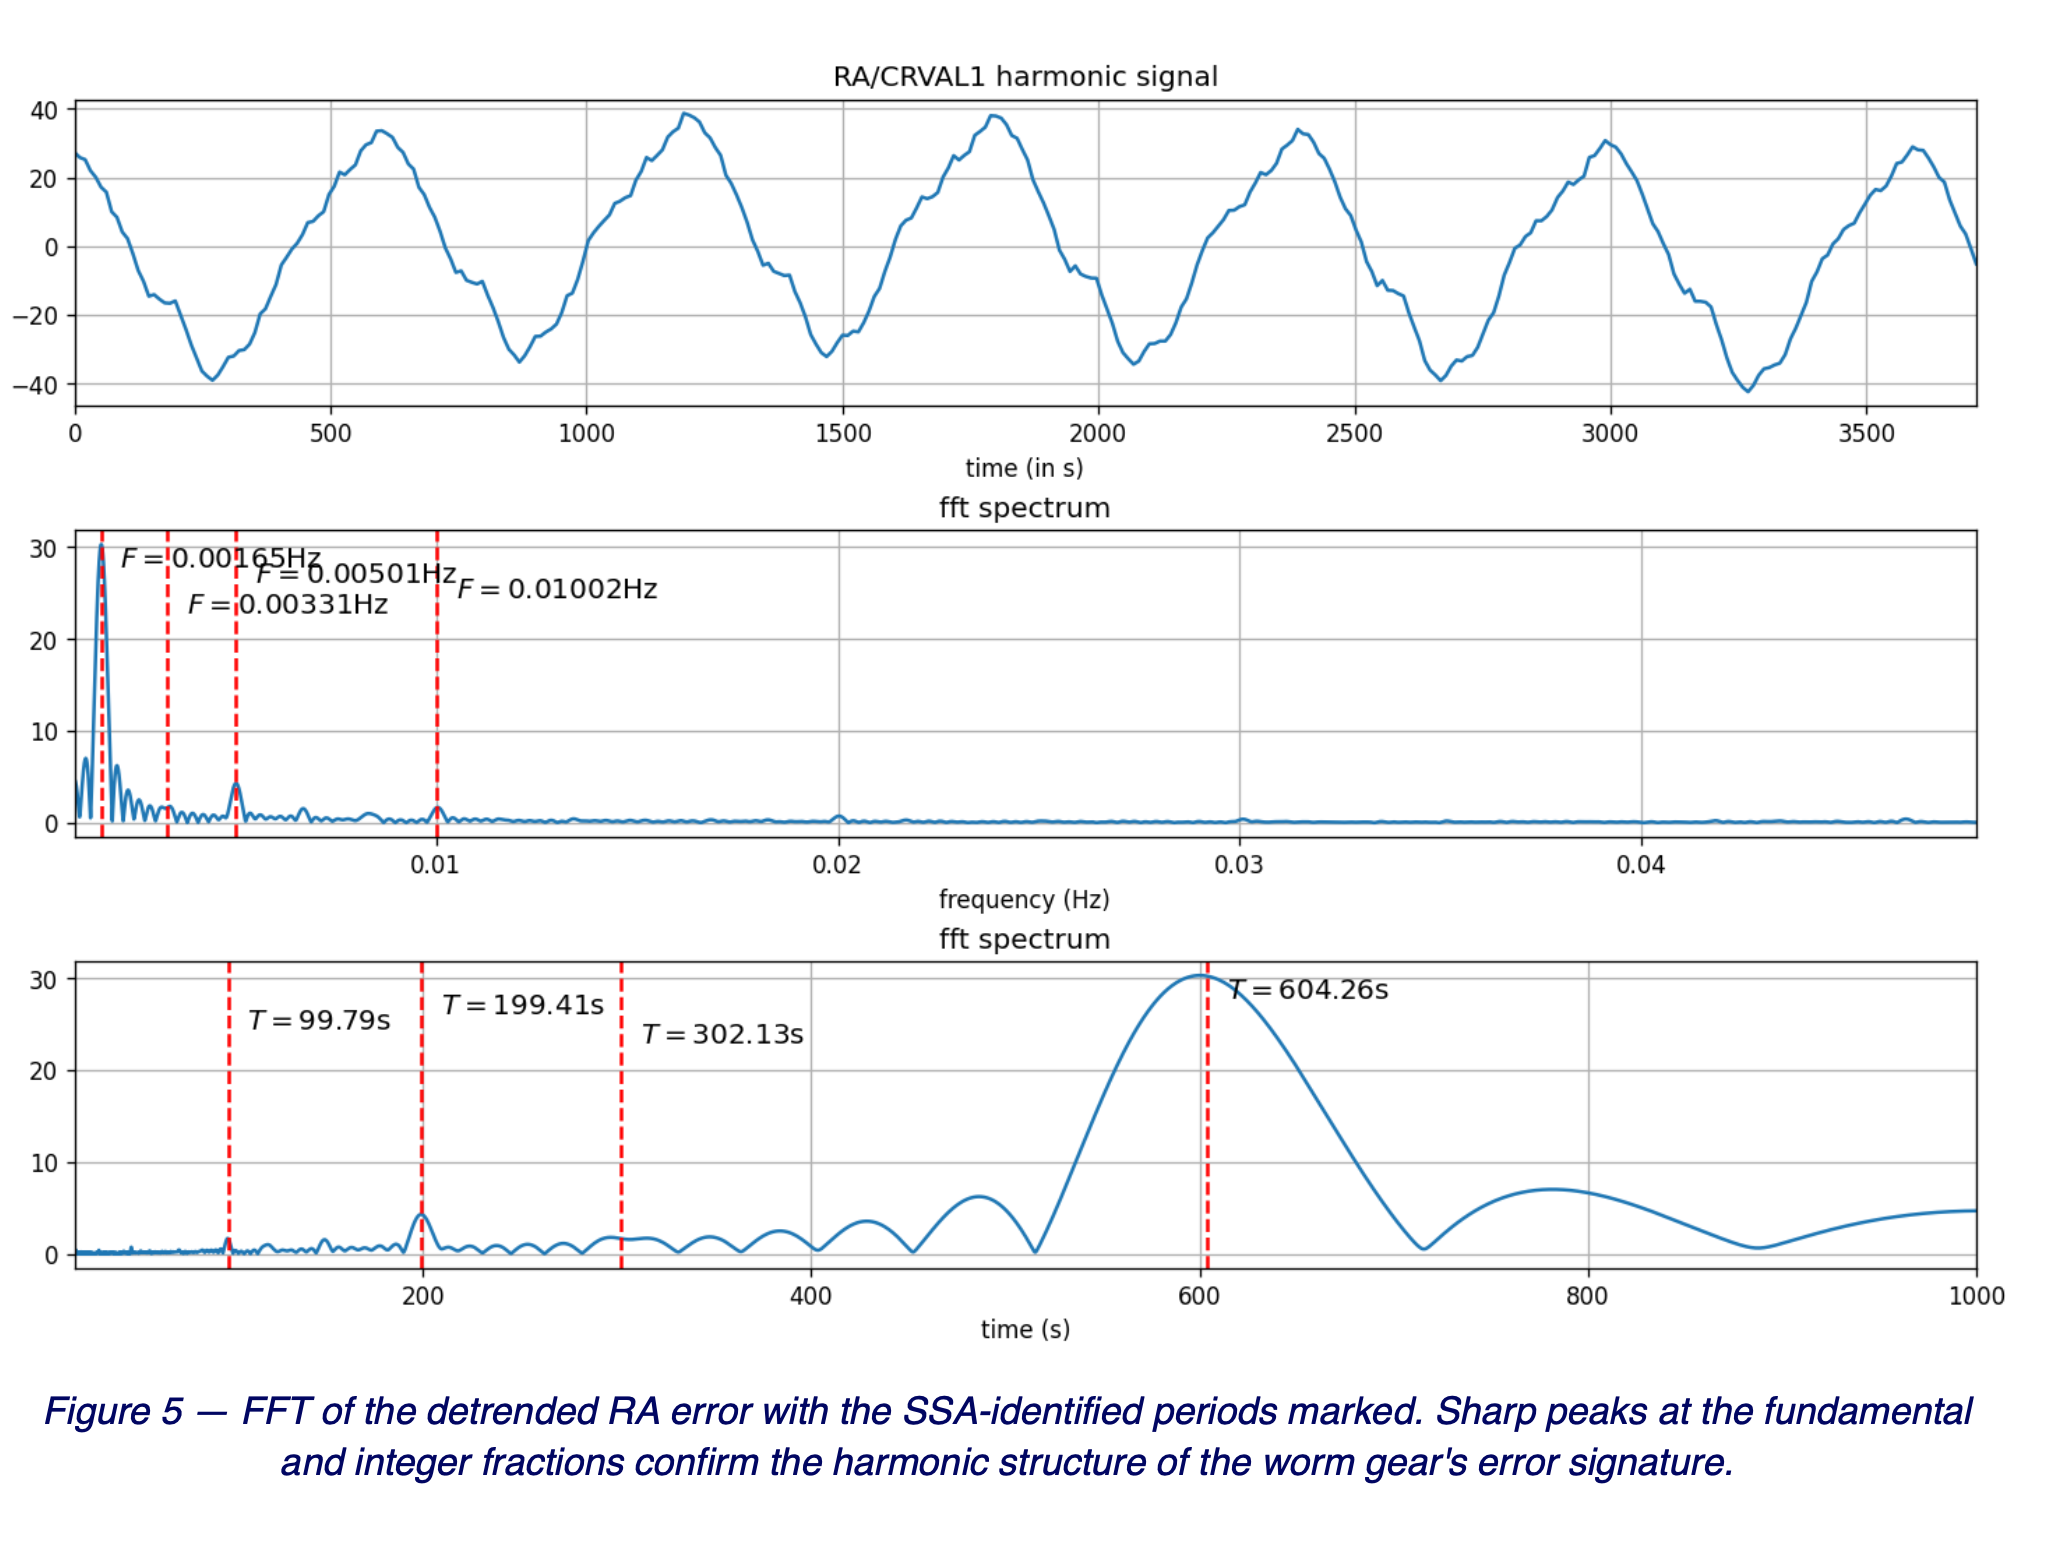
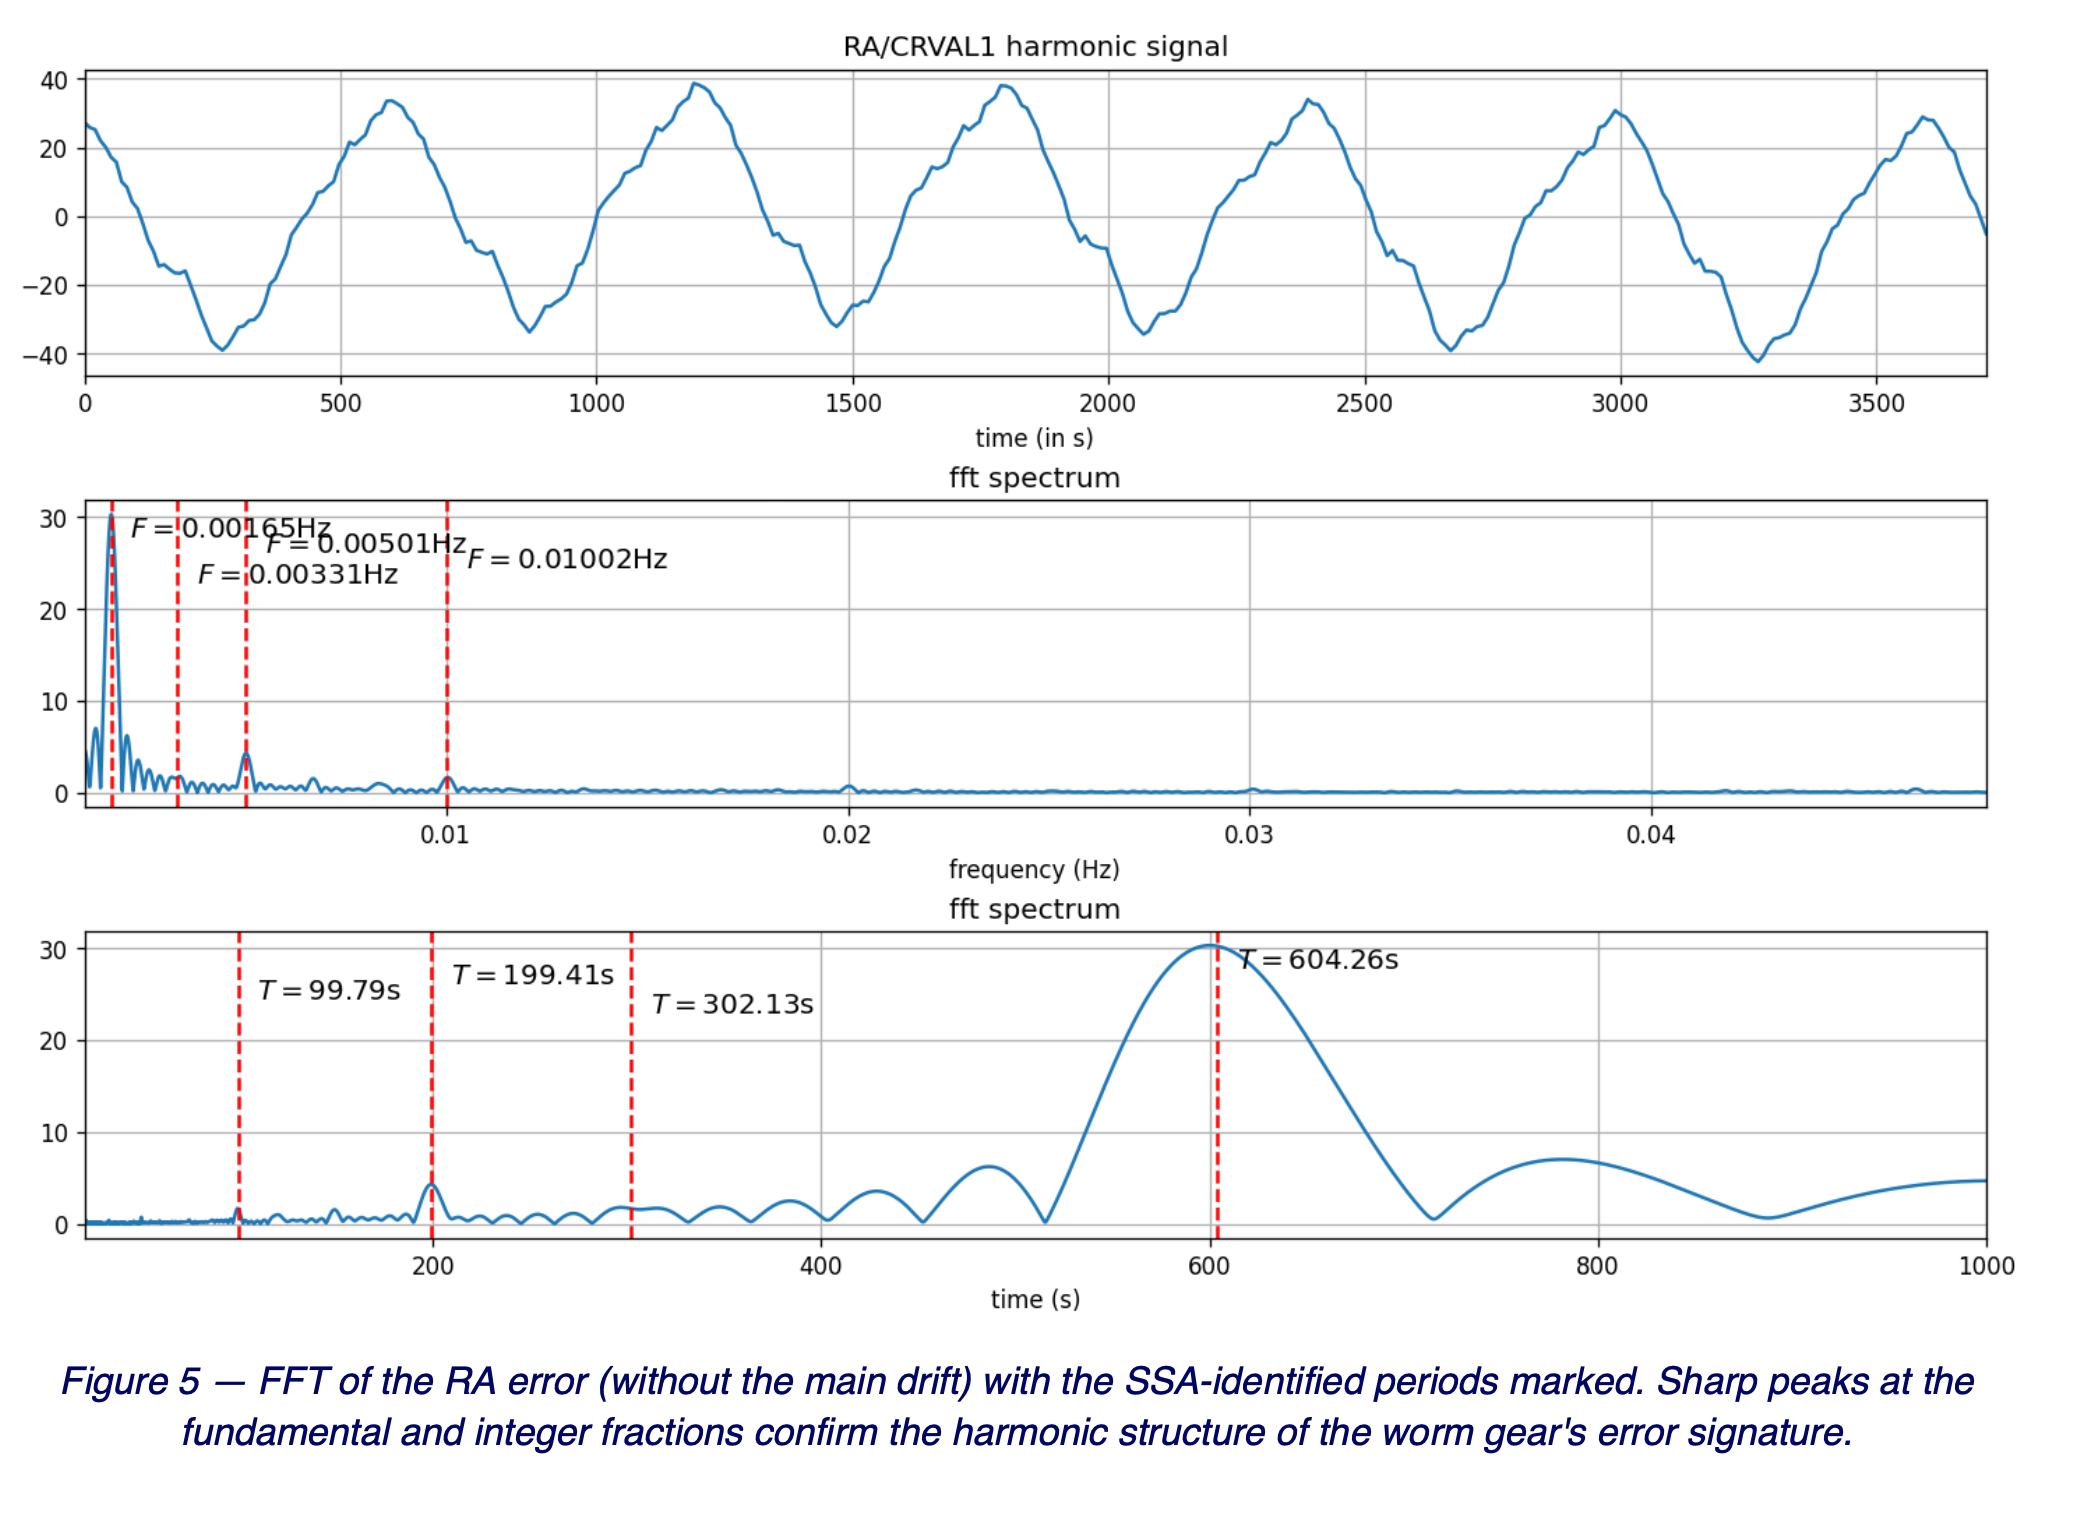
clarify wording: 'secular' → 'linear' across the PDF report and README.md

diff --git a/PE_Analysis.py b/PE_Analysis.py
@@ -1094,7 +1094,7 @@ def _build_pdf_report(out_path, *,
         "(SSA), a model-free technique that builds a trajectory matrix from "
         "the signal, performs an SVD, and reconstructs the components from "
         "the leading eigentriples. Adjacent eigenpairs with similar "
-        "eigenvalues are merged as sinusoid pairs, identifying the secular "
+        "eigenvalues are merged as sinusoid pairs, identifying the linear "
         "drift, the worm-period fundamental, and the dominant harmonics. "
         "An FFT applied to each grouped sinusoid yields its precise period "
         "and amplitude.", h_body))
@@ -1140,7 +1140,7 @@ def _build_pdf_report(out_path, *,
         f"{ssa_metrics['n_frames']} samples (mean sampling period "
         f"{ssa_metrics['sampling_period_s']:.2f} s), extracting "
         f"{SSA_NB_EIGEN} eigencomponents grouped into "
-        f"{SSA_GROUP_ORDER + 1} dominant components (the secular drift "
+        f"{SSA_GROUP_ORDER + 1} dominant components (the linear drift "
         "plus the fundamental and four harmonics).", h_body))
     if "singular_spectrum" in figures:
         story.append(_fig_to_image_flowable(figures["singular_spectrum"],
@@ -1180,7 +1180,7 @@ def _build_pdf_report(out_path, *,
         story.append(_fig_to_image_flowable(figures["stacked_components"],
                                             content_width, 22 * cm))
         story.append(Paragraph(
-            "Figure 4 — Stacked SSA components: secular drift plus the "
+            "Figure 4 — Stacked SSA components: linear drift plus the "
             "fundamental and four harmonics, each annotated with its peak "
             "amplitude.", h_caption))
     if "fft_all_components" in figures:
@@ -1188,7 +1188,7 @@ def _build_pdf_report(out_path, *,
         story.append(_fig_to_image_flowable(figures["fft_all_components"],
                                             content_width, 22 * cm))
         story.append(Paragraph(
-            "Figure 5 — FFT of the detrended RA error with the SSA-"
+            "Figure 5 — FFT of the RA error (without the main drift) with the SSA-"
             "identified periods marked. Sharp peaks at the fundamental "
             "and integer fractions confirm the harmonic structure of the "
             "worm gear's error signature.", h_caption))
@@ -1200,7 +1200,7 @@ def _build_pdf_report(out_path, *,
         f"a reconstruction of the original RA error with a residual RMS of "
         f"<b>{ssa_metrics['rmse_arcsec']:.2f} arcsec</b>. A low RMSE "
         "indicates that the dominant tracking error is well-described by "
-        "the secular drift plus a handful of sinusoidal components — "
+        "the linear drift plus a handful of sinusoidal components — "
         "exactly the structure a PEC table can correct. A high RMSE points "
         "to non-periodic noise (seeing, wind, flexure) that PEC cannot "
         "address.", h_body))
@@ -1229,7 +1229,7 @@ def _build_pdf_report(out_path, *,
     ) if fund_comp else ""
     story.append(Paragraph(
         fund_text +
-        f"The RA secular drift over the capture averages "
+        f"The RA linear drift over the capture averages "
         f"{drift_rate:+.2f} arcsec/min; values within ±1 arcsec/min are "
         "typically consistent with a small polar-alignment residual, while "
         "larger drifts warrant a polar-alignment check before further mount "